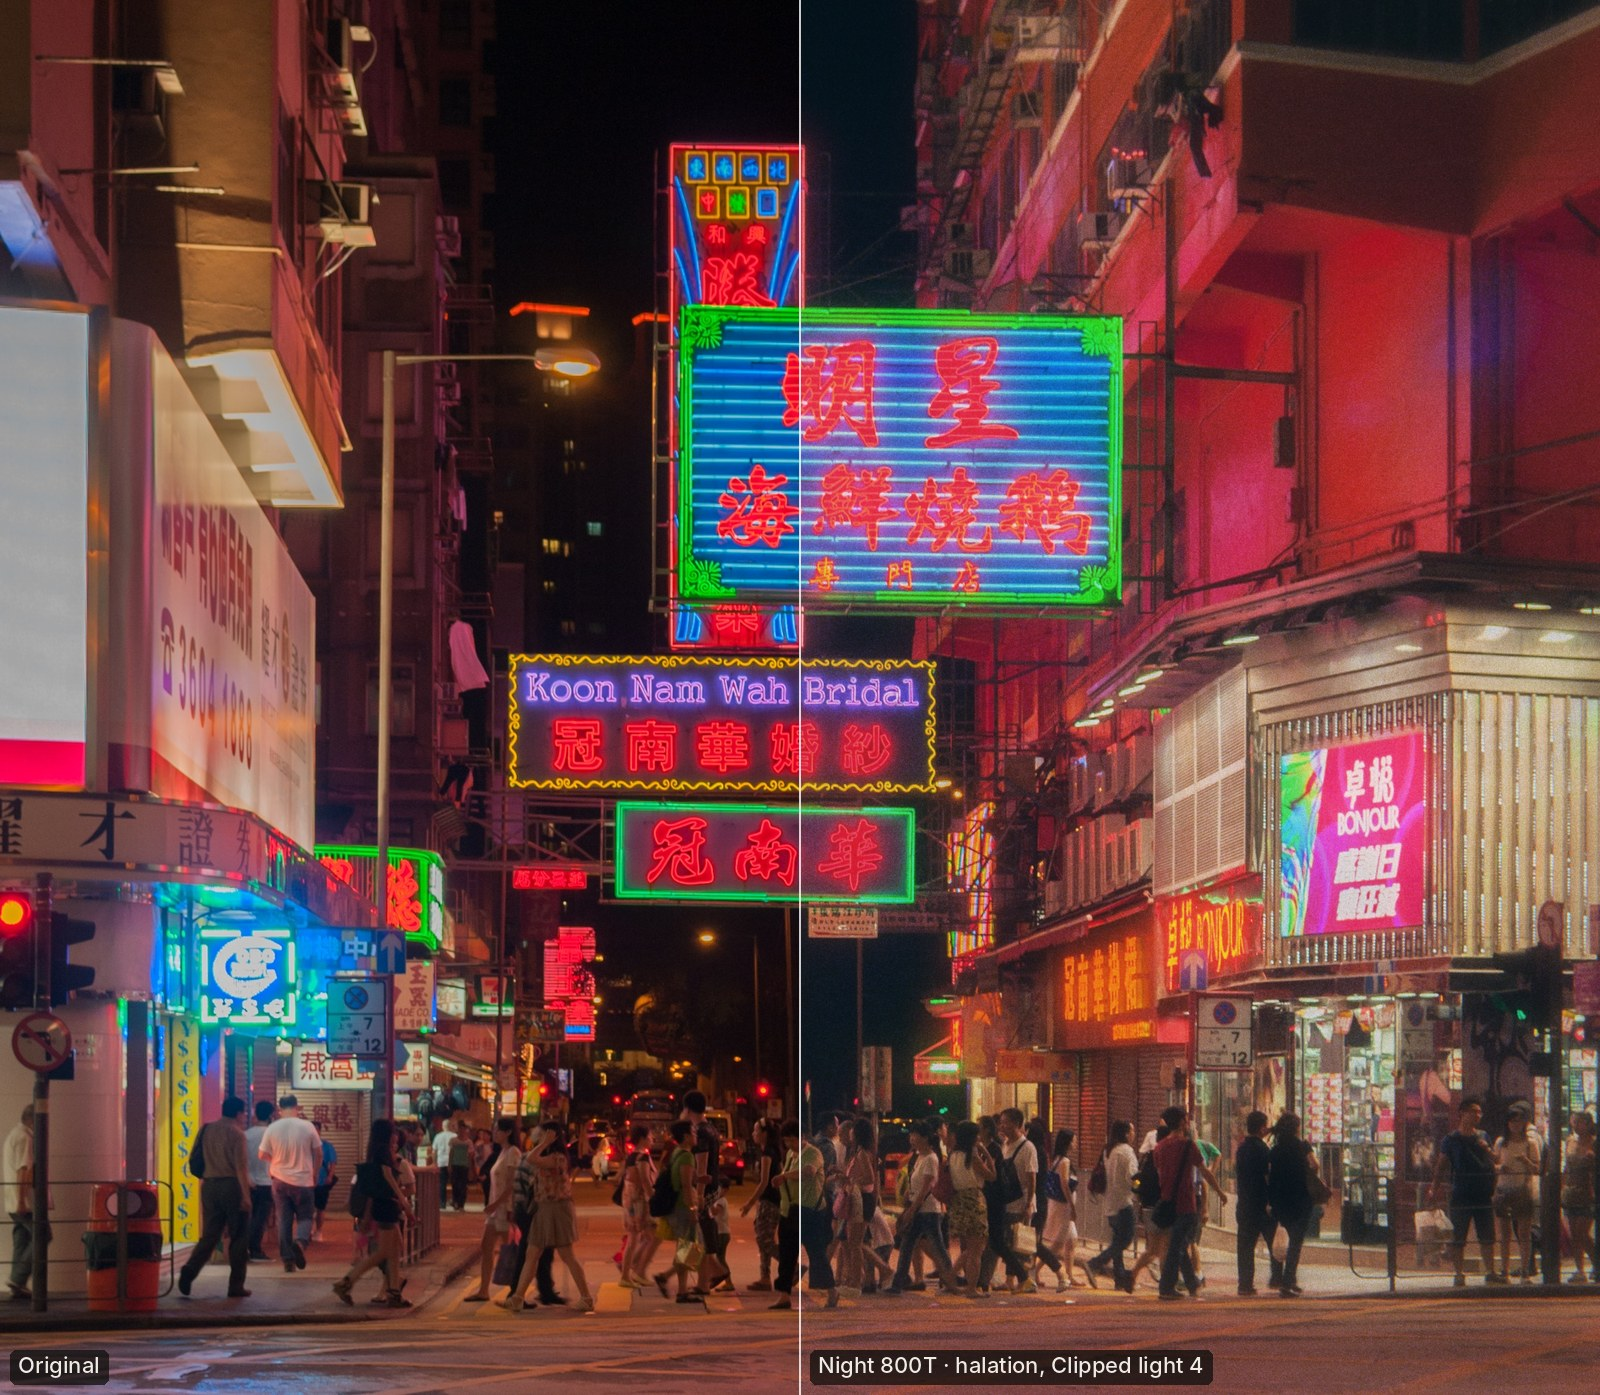
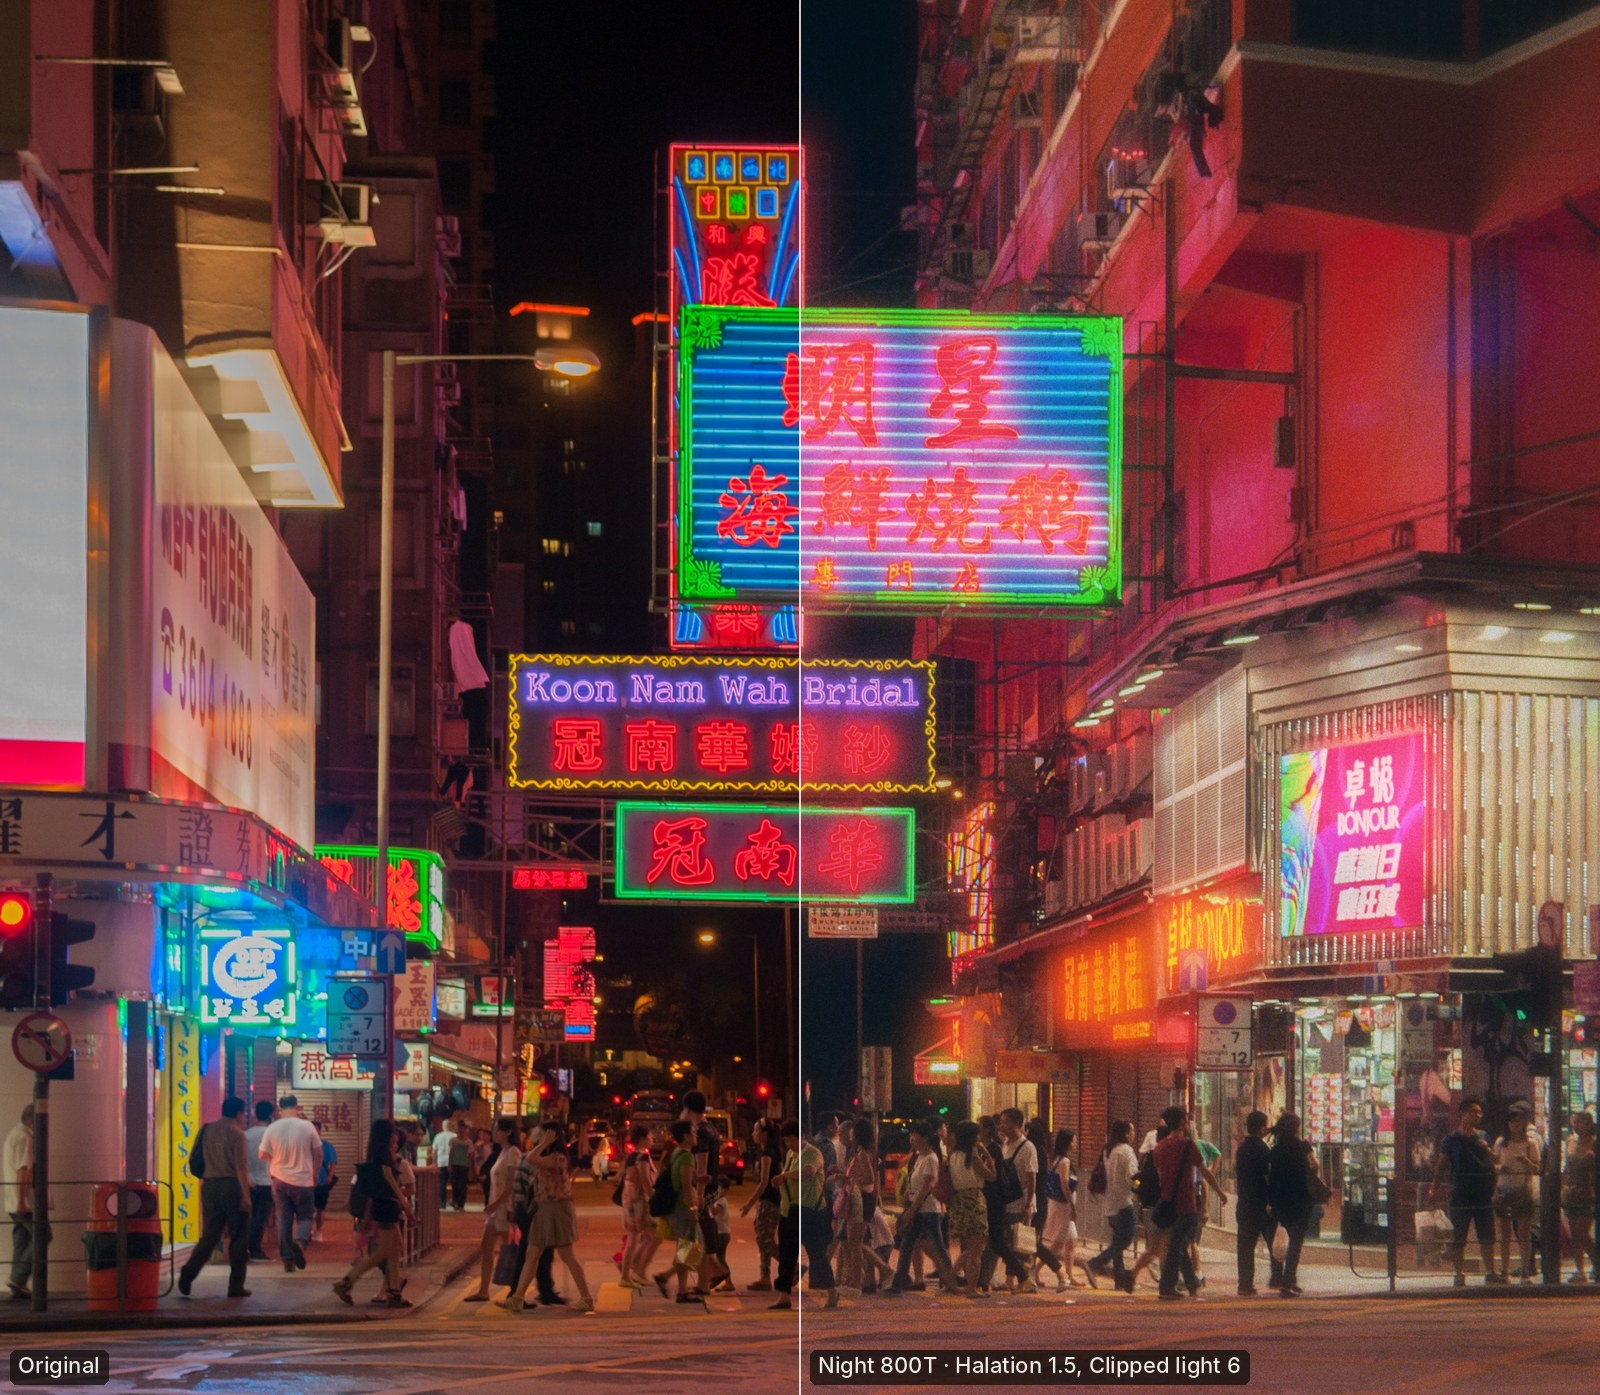
README examples: portrait in six looks, Tears of Steel live action, night pushed + 1:1 detail
Claude-Session: https://claude.ai/code/session_019BuCnSyppBWf6bk7Rp2sZ5

diff --git a/README.md b/README.md
@@ -10,21 +10,28 @@ Everything runs locally in your browser with WebGL2. **Your images never leave y
 
 ## Examples
 
-Left: the original. Right: Ernest Lab's built-in looks as they ship, untouched, exported at 2000 px and scaled down for this page.
+Left: the original. Right: Ernest Lab, exported at 2000 px and scaled down for this page. Built-in looks as they ship, unless the label says otherwise.
 
-**CG, Vision3 500T-style:** measured 500T grain on Super 35, physical halation around the light source.
+**CG, Tungsten 500:** measured Vision3 500T grain on Super 35, physical halation around the light source.
 ![Tears of Steel CG city, original vs Tungsten 500](docs/examples/ex_cg_city.jpg)
 
-**Night, CineStill-style:** halation from the film base (no anti-halation backing), only around lights; *Clipped light* tells it how much brighter the neon really was than the 8-bit file can show.
-![Hong Kong night street, original vs Night 800T](docs/examples/ex_night.jpg)
+**Live action + CG, Daylight 250:** the same grain on the plate and the CG robot, so they sit together.
+![Tears of Steel robot, original vs Daylight 250](docs/examples/ex_robot.jpg)
 
-**Portrait 400:** soft contrast, warm skin, gentle roll-off.
-![Portrait, original vs Portrait 400](docs/examples/ex_portrait.jpg)
+**Interior, Tungsten 500:**
+![Tears of Steel interior, original vs Tungsten 500](docs/examples/ex_interior.jpg)
+
+**Night, CineStill-style:** halation from the film base (no anti-halation backing), only around lights. Here pushed (Halation 1.5, Clipped light 6): an 8-bit file clips every neon tube at white, and *Clipped light* tells Ernest Lab how much brighter they really were. At 1:1, the red halos bleed over the blue tubes:
+![Hong Kong night street, original vs Night 800T pushed](docs/examples/ex_night.jpg)
+![Detail at 1:1, original vs Night 800T pushed](docs/examples/ex_night_detail.jpg)
+
+**One portrait, six looks:** original, Portrait 400, Slide 100, Soft 500, B&W Tri-X, Bleach bypass.
+![Portrait in six looks](docs/examples/ex_portrait_looks.jpg)
 
 **Black & white from spectra:** the same CG frame on Tri-X, unfiltered (Tri-X sees blue strongly, so the sky goes pale) and through a red #25 filter (blue sky darkens, clouds stand out), computed from Kodak's measured sensitivity and filter curves.
 ![Big Buck Bunny, original vs Tri-X vs Tri-X with red filter](docs/examples/ex_bw_filters.jpg)
 
-<sub>Images from Wikimedia Commons: *Tears of Steel* frame 00 1c, (CC) Blender Foundation | mango.blender.org, [CC BY 3.0](https://creativecommons.org/licenses/by/3.0/) ([source](https://commons.wikimedia.org/wiki/File:Tears_of_Steel_frame_00_1c.jpg)) · *Hong Kong night street 2* by Wilfredor, [CC0](https://creativecommons.org/publicdomain/zero/1.0/) ([source](https://commons.wikimedia.org/wiki/File:Hong_Kong_night_street_2.jpg)) · *Woman in a headwrap in Quebec City* by Wilfredor, CC0 ([source](https://commons.wikimedia.org/wiki/File:Woman_in_a_headwrap_in_Quebec_City.jpg)) · *Big Buck Bunny*, (c) copyright Blender Foundation | peach.blender.org, [CC BY 3.0](https://creativecommons.org/licenses/by/3.0/) ([source](https://commons.wikimedia.org/wiki/File:Bbb-splash.png)). Modified: film looks applied, split and labelled. The example images are under their own licences, not the MIT licence of the code.</sub>
+<sub>Images from Wikimedia Commons: *Tears of Steel* frames 00 1c, 05 6a and 04 3e, (CC) Blender Foundation | mango.blender.org, [CC BY 3.0](https://creativecommons.org/licenses/by/3.0/) ([1](https://commons.wikimedia.org/wiki/File:Tears_of_Steel_frame_00_1c.jpg), [2](https://commons.wikimedia.org/wiki/File:Tears_of_Steel_frame_05_6a.jpg), [3](https://commons.wikimedia.org/wiki/File:Tears_of_Steel_frame_04_3e.jpg)) · *Hong Kong night street 2* by Wilfredor, [CC0](https://creativecommons.org/publicdomain/zero/1.0/) ([source](https://commons.wikimedia.org/wiki/File:Hong_Kong_night_street_2.jpg)) · *Woman in a headwrap in Quebec City* by Wilfredor, CC0 ([source](https://commons.wikimedia.org/wiki/File:Woman_in_a_headwrap_in_Quebec_City.jpg)) · *Big Buck Bunny*, (c) copyright Blender Foundation | peach.blender.org, [CC BY 3.0](https://creativecommons.org/licenses/by/3.0/) ([source](https://commons.wikimedia.org/wiki/File:Bbb-splash.png)). Modified: film looks applied, cropped, split and labelled. The example images are under their own licences, not the MIT licence of the code.</sub>
 
 ## Use it
 
